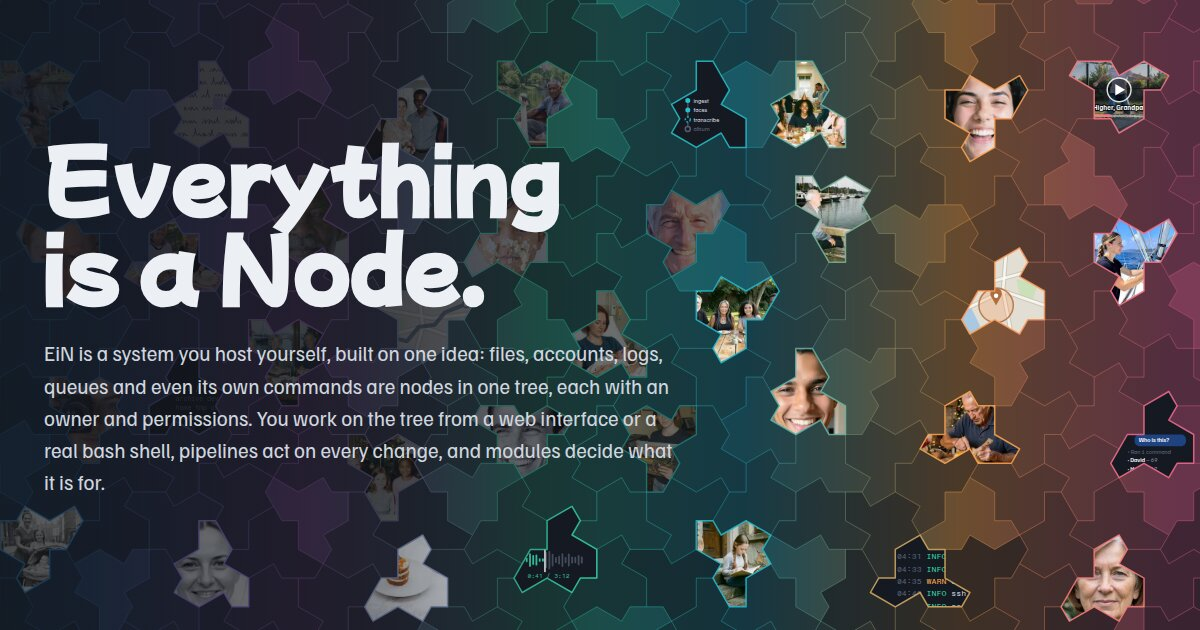
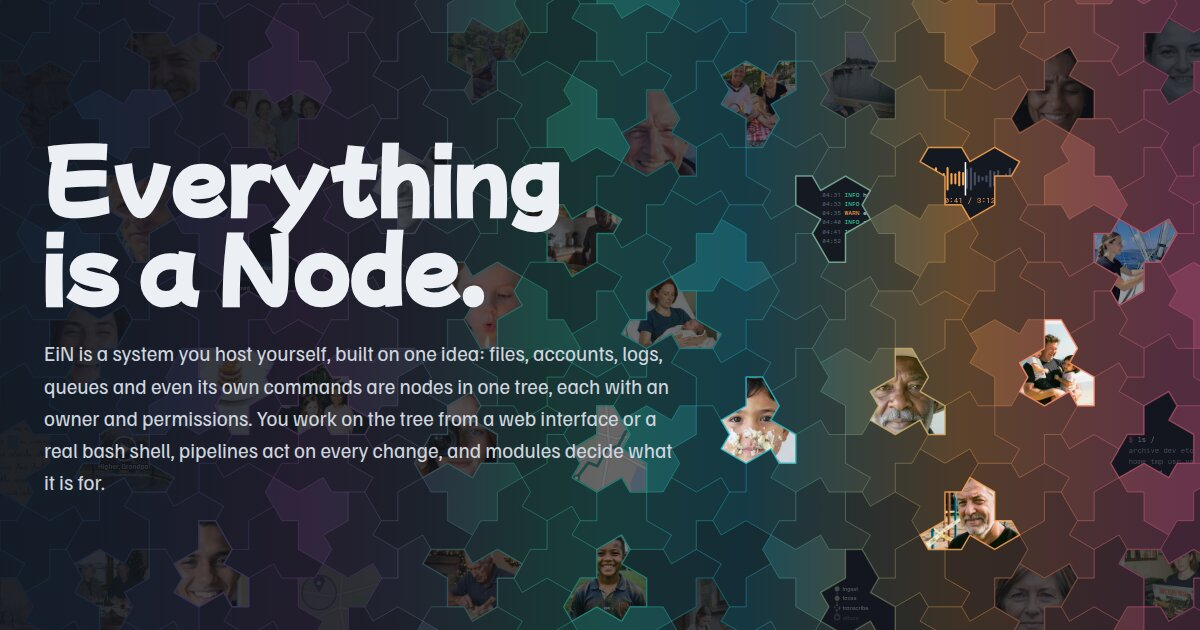
feat: Getting started comes right after the hero, and the hero's pictures run out to its edges
How to install follows the hero, titled Getting started, its details listing the assistant module
beside the Archive's, and One tree of nodes opens Core with the band of hats in Core's lime. The
system requirements, opening shorter, and the source still close the page, and the top bar marks
the chapter of whichever section is in view, whatever their order.

The hero's Getting started button comes first, alone on its row on a phone, and the key under the
hero is gone. Its pictures, now 38 with the drawn nodes beside them, go to every tile, the edges'
too, fading out towards them, and its foot runs into the deep ground under it.

diff --git a/index.html b/index.html
@@ -85,17 +85,72 @@
             You work on the tree from a web interface or a real bash shell, pipelines act on every change, and modules decide what it is for.
           </p>
           <div class="actions">
+            <a class="button button-start" href="#start">Getting started</a>
             <a class="button button-primary" href="#nodes">See how it works</a>
             <a class="button" href="#archive">Meet the Archive</a>
-            <a class="button button-start" href="#start">Getting started</a>
           </div>
         </div>
-        <p class="field-key">Each tile is a node: the Archive demo's people, albums and cameras, beside shells, logs, pipelines, recordings, places and letters.</p>
       </section>
 
-      <section class="nodes ch-core" id="nodes" aria-labelledby="nodes-title">
+      <section class="start deep ch-start" id="start" aria-labelledby="start-title">
         <div class="wrap">
           <div class="intro">
+            <h2 id="start-title">Getting started</h2>
+          </div>
+          <div class="installs">
+            <div class="install-choice">
+              <h3>EiN Core</h3>
+              <p>The bare bones EiN installation: add to it when you want.</p>
+              <div class="install">
+                <pre class="term term-command"
+                  tabindex="0"><code><span class="p">$</span> <span class="w">curl -fsSL</span> <span class="w">https://einhq.eu/install.sh</span> <span class="w">| bash</span></code></pre>
+                <button class="copy" type="button" data-copy hidden>Copy</button>
+                <span class="sr-only" role="status"></span>
+              </div>
+            </div>
+            <div class="install-choice">
+              <h3>EiN Archive</h3>
+              <p>The full Archive installation, with the media service and the chat.</p>
+              <div class="install">
+                <pre class="term term-command"
+                  tabindex="0"><code><span class="p">$</span> <span class="w">curl -fsSL</span> <span class="w">https://einhq.eu/install.sh</span> <span class="w">| bash -s --</span> <span class="w">--ems</span> <span class="w">--llm</span> <span class="w">--module archive</span> <span class="w">--module assistant</span></code></pre>
+                <button class="copy" type="button" data-copy hidden>Copy</button>
+                <span class="sr-only" role="status"></span>
+              </div>
+            </div>
+          </div>
+          <p class="install-note">
+            Either checks the machine against the <a href="#requirements">system requirements</a> below and stops if something is missing. Then it fetches
+            <a href="https://github.com/einhq/deploy">deploy</a> into <code>~/ein</code>, builds and starts, and prints the admin password to sign in with. <a
+              href="https://github.com/einhq/einhq.github.io/blob/main/install.sh"
+            >Read it first</a>.
+          </p>
+
+          <h3 class="sub">Details</h3>
+          <ol class="steps">
+            <li>
+              The media service, which the Archive needs: <code>~/ein/setup.sh --ems</code>. An image of about 30 GB with every model in it, built once, and the graphics card if there
+              is one.
+            </li>
+            <li>The assistant's language model: <code>--llm</code>. Or a hosted provider, set in <code>~/ein/.env</code>.</li>
+            <li>
+              The Archive module: <code>--module archive</code>, which EiN installs at its next start with the modules it needs. Settings → Modules adds, updates and removes
+              modules too.
+            </li>
+            <li>The assistant module: <code>--module assistant</code>, the chat, which answers with the language model.</li>
+            <li>
+              Updates: <code>~/ein/setup.sh</code> again fetches the newest sources of EiN and its services, rebuilds and restarts, keeping every option chosen before and the installed
+              modules, which Settings → Modules updates.
+            </li>
+          </ol>
+        </div>
+      </section>
+
+      <section class="nodes chapter ch-core" id="nodes" aria-labelledby="nodes-title">
+        <div class="band" data-band="system" aria-hidden="true"></div>
+        <div class="wrap">
+          <div class="intro">
+            <p class="chapter-mark"><span class="mark" aria-hidden="true"></span>Core</p>
             <h2 id="nodes-title">One tree of nodes</h2>
             <p>
               A node has a type, the attributes that type needs, an owner, a group and permission bits, and a name in a folder. It can have names in several folders at once, as a
@@ -1463,70 +1518,11 @@ options:
         </div>
       </section>
 
-      <section class="start deep chapter ch-start" id="start" aria-labelledby="install-title">
-        <div class="band" data-band="docs" aria-hidden="true"></div>
-        <div class="wrap">
-          <div class="intro">
-            <p class="chapter-mark"><span class="mark" aria-hidden="true"></span>Getting started</p>
-            <h2 id="install-title">Install</h2>
-            <p>
-              <span class="chip">In progress</span> Nothing is released yet and there are no published images, so the installer builds EiN from source on the machine it runs on and
-              starts it with podman compose or docker compose. One command, for EiN Core or EiN Archive:
-            </p>
-          </div>
-          <div class="installs">
-            <div class="install-choice">
-              <h3>EiN Core</h3>
-              <p>The bare bones EiN installation: add to it when you want.</p>
-              <div class="install">
-                <pre class="term term-command"
-                  tabindex="0"><code><span class="p">$</span> <span class="w">curl -fsSL</span> <span class="w">https://einhq.eu/install.sh</span> <span class="w">| bash</span></code></pre>
-                <button class="copy" type="button" data-copy hidden>Copy</button>
-                <span class="sr-only" role="status"></span>
-              </div>
-            </div>
-            <div class="install-choice">
-              <h3>EiN Archive</h3>
-              <p>The full Archive installation, with the media service and the chat.</p>
-              <div class="install">
-                <pre class="term term-command"
-                  tabindex="0"><code><span class="p">$</span> <span class="w">curl -fsSL</span> <span class="w">https://einhq.eu/install.sh</span> <span class="w">| bash -s --</span> <span class="w">--ems</span> <span class="w">--llm</span> <span class="w">--module archive</span> <span class="w">--module assistant</span></code></pre>
-                <button class="copy" type="button" data-copy hidden>Copy</button>
-                <span class="sr-only" role="status"></span>
-              </div>
-            </div>
-          </div>
-          <p class="install-note">
-            Either checks the machine against the <a href="#requirements">system requirements</a> below and stops if something is missing. Then it fetches
-            <a href="https://github.com/einhq/deploy">deploy</a> into <code>~/ein</code>, builds and starts, and prints the admin password to sign in with. <a
-              href="https://github.com/einhq/einhq.github.io/blob/main/install.sh"
-            >Read it first</a>.
-          </p>
-
-          <h3 class="sub">Adding to it later</h3>
-          <ol class="steps">
-            <li>
-              The media service, which the Archive needs: <code>~/ein/setup.sh --ems</code>. An image of about 30 GB with every model in it, built once, and the graphics card if there
-              is one.
-            </li>
-            <li>The assistant's language model: <code>--llm</code>. Or a hosted provider, set in <code>~/ein/.env</code>.</li>
-            <li>A module: <code>--module archive</code>, which EiN installs at its next start with the modules it needs. Settings → Modules adds, updates and removes them too.</li>
-            <li>
-              Updates: <code>~/ein/setup.sh</code> again fetches the newest sources of EiN and its services, rebuilds and restarts, keeping every option chosen before and the installed
-              modules, which Settings → Modules updates.
-            </li>
-          </ol>
-        </div>
-      </section>
-
-      <section class="requirements ch-start" id="requirements" aria-labelledby="requirements-title">
+      <section class="requirements deep ch-start" id="requirements" aria-labelledby="requirements-title">
         <div class="wrap">
           <div class="intro">
             <h2 id="requirements-title">System requirements</h2>
-            <p>
-              EiN runs in containers on one Linux machine: EiN and its database always, the media service and the language model when you add them. A graphics card is optional: without one every feature still works, more slowly. The recommended machine is the one EiN
-              is tuned and measured on; the minimum is an estimate that has not yet been run end to end.
-            </p>
+            <p>EiN runs in containers on one Linux machine. A graphics card is optional: without one everything works, only slower. The minimum is an estimate.</p>
           </div>
           <div class="table-scroll" tabindex="0" role="region" aria-label="System requirements">
             <table class="spec">
@@ -1603,7 +1599,7 @@ options:
         </div>
       </section>
 
-      <section class="source deep ch-start" id="source" aria-labelledby="source-title">
+      <section class="source ch-start" id="source" aria-labelledby="source-title">
         <div class="wrap">
           <div class="intro">
             <h2 id="source-title">Open source</h2>

diff --git a/assets/site.js b/assets/site.js
@@ -402,9 +402,10 @@ const GLYPHS = {
 
 /**
  * Lays the hats over `host`: the faces of the demo's people, the covers of its albums and cameras and
- * the drawn nodes spread over the whole field, dimmed where the copy stands over them, and every other
- * tile tinted in EiN's mixed pattern, brighter on the open side: right of the copy on a wide screen,
- * above the headline on a narrow one. A pictured tile's outline takes the pattern's colour where it lies.
+ * the drawn nodes spread over the whole field, dimmed where the copy stands over them and fading out
+ * towards its edges, and every other tile tinted in EiN's mixed pattern, brighter on the open side:
+ * right of the copy on a wide screen, above the headline on a narrow one. A pictured tile's outline
+ * takes the pattern's colour where it lies.
  */
 function layField(host, pictures, entering) {
   const width = host.clientWidth;
@@ -416,7 +417,7 @@ function layField(host, pictures, entering) {
   const headline = host.parentElement.querySelector('h1');
   const copyTop = headline ? headline.getBoundingClientRect().top - origin.top : height * 0.4;
   // The copy's box, around the lines of the headline and the lede and the buttons (a headline's
-  // own box is wider than its words), and where the key under it starts.
+  // own box is wider than its words).
   const lines = (selector) => {
     const range = document.createRange();
     const el = host.parentElement.querySelector(selector);
@@ -433,8 +434,6 @@ function layField(host, pictures, entering) {
       bottom: Math.max(...parts.map((r) => r.bottom)) - origin.top,
     }
     : null;
-  const key = host.parentElement.querySelector('.field-key');
-  const foot = key ? key.getBoundingClientRect().top - origin.top - 8 : height;
   const hatPx = width < 720 ? 60 : Math.min(112, Math.max(76, width / 14));
   const tiles = hatsIn(width, height, CUT, hatPx / HAT_WIDTH);
 
@@ -442,14 +441,18 @@ function layField(host, pictures, entering) {
   // brighter.
   const openness = (t) =>
     stacked ? 1 - smooth(copyTop * 0.5, copyTop * 0.92, t.cy) : smooth(width * 0.38, width * 0.8, t.cx) * (1 - smooth(height * 0.66, height * 0.92, t.cy));
-  // A picture behind the copy is dimmed, so the text over it stays easy to read.
+  // A picture behind the copy is dimmed, so the text over it stays easy to read, and one towards the
+  // field's edges fades out, as one cut by an edge runs on past it.
   const margin = hatPx * 0.3;
   const behindCopy = (t) => copy && t.cx > copy.x - margin && t.cx < copy.right + margin && t.cy > copy.y - margin && t.cy < copy.bottom + margin;
-  const whole = (t) => t.box.x >= 0 && t.box.y >= barBottom() && t.box.right <= width && t.box.bottom <= foot;
-  // Pictures go to whole tiles over the whole field, spread evenly: the most open tile first, then
-  // each time the tile farthest from those chosen, until every picture has a tile or no tile is a
-  // spacing clear of the others and touches none of them.
-  const free = tiles.filter(whole);
+  const top = barBottom();
+  const toEdge = (t) => Math.min(t.cx, width - t.cx, t.cy - top, height - t.cy);
+  const shown = (t) => (behindCopy(t) ? 0.4 : 1) * (0.2 + 0.8 * smooth(0, hatPx * 1.6, toEdge(t)));
+  // Pictures go to tiles over the whole field, edges and all, spread evenly: the most open tile
+  // first, then each time the tile farthest from those chosen, until every picture has a tile or no
+  // tile is a spacing clear of the others and touches none of them. A tile whose middle is off the
+  // field or under the top bar takes none.
+  const free = tiles.filter((t) => toEdge(t) >= 0);
   const chosen = [];
   while (chosen.length < pictures.length && free.length) {
     let best;
@@ -494,7 +497,7 @@ function layField(host, pictures, entering) {
       const accent = mixedAt(tile.cx / width);
       const group = svg('g', {
         class: 'tile tile-picture',
-        style: `--delay: ${delay.toFixed(0)}ms; --accent: ${accent}${behindCopy(tile) ? '; opacity: 0.4' : ''}`,
+        style: `--delay: ${delay.toFixed(0)}ms; --accent: ${accent}; opacity: ${shown(tile).toFixed(2)}`,
       });
       const clip = `hat-${tile.index}`;
       const clipPath = svg('clipPath', { id: clip });
@@ -781,7 +784,8 @@ function barBottom() {
 
 /**
  * The top bar: an edge once the page has scrolled, and its link to the chapter in view marked
- * (`aria-current`), the chapter being the last whose start has passed a third of the way down. On a
+ * (`aria-current`): the chapter (`ch-` class) of the last section whose start has passed a third of
+ * the way down, the hero's being the first link's. Getting started comes both first and last. On a
  * phone its links are a menu (site.css), which a chapter's link, Escape, a tap outside it or a wider
  * window closes again.
  */
@@ -789,12 +793,15 @@ function bar() {
   const header = document.querySelector('.bar');
   if (!header) return;
   const links = [...header.querySelectorAll('nav a')];
-  const starts = links.map((link) => document.querySelector(link.hash));
+  const sections = [...document.querySelectorAll('main > section')];
+  const chapterOf = (el) => [...el.classList].find((name) => name.startsWith('ch-'));
+  const linkOf = (section) => links.find((link) => chapterOf(link) === chapterOf(section)) ?? links[0];
   const update = () => {
     header.toggleAttribute('data-scrolled', scrollY > 8);
     const line = innerHeight / 3;
-    const at = starts.findLastIndex((start) => start && start.getBoundingClientRect().top <= line);
-    links.forEach((link, i) => i === at ? link.setAttribute('aria-current', 'true') : link.removeAttribute('aria-current'));
+    const section = sections.findLast((el) => el.getBoundingClientRect().top <= line);
+    const at = section && linkOf(section);
+    for (const link of links) link === at ? link.setAttribute('aria-current', 'true') : link.removeAttribute('aria-current');
   };
   addEventListener('scroll', update, { passive: true });
   addEventListener('resize', update, { passive: true });

diff --git a/assets/site.css b/assets/site.css
@@ -569,7 +569,7 @@ kbd {
   display: grid;
   align-content: end;
   min-height: min(94vh, 900px);
-  padding: calc(120px + var(--notice-h)) var(--gutter) 40px;
+  padding: calc(120px + var(--notice-h)) var(--gutter) clamp(56px, 7vw, 104px);
   overflow: hidden;
   isolation: isolate;
 }
@@ -583,7 +583,8 @@ kbd {
   width: 100%;
   height: 100%;
 }
-/* The copy stands on a quieter left and foot of the field; the scrim paints above the tiles. */
+/* The copy stands on a quieter left and foot of the field, whose foot runs into the deep ground of
+ * Getting started under it; the scrim paints above the tiles. */
 .hero::before {
   content: '';
   position: absolute;
@@ -591,7 +592,7 @@ kbd {
   z-index: -1;
   pointer-events: none;
   background:
-    linear-gradient(to top, var(--ink) 0%, rgb(18 21 28 / 0.55) 7%, transparent 13%),
+    linear-gradient(to top, var(--ink-deep) 0%, rgb(18 21 28 / 0.55) 7%, transparent 13%),
     linear-gradient(to right, rgb(18 21 28 / 0.72) 0%, rgb(18 21 28 / 0.5) 30%, transparent 46%);
 }
 .hero-copy {
@@ -666,12 +667,16 @@ kbd {
 .button-start:hover::before {
   transform: rotate(60deg);
 }
-
-.field-key {
-  width: min(100%, var(--wrap));
-  margin: 72px auto 0;
-  color: var(--muted);
-  font-size: var(--t-small);
+/* On a phone the way in takes the row, and the other two share the one under it. */
+@media (max-width: 780px) {
+  .actions .button {
+    flex: 1 1 auto;
+    justify-content: center;
+    padding-inline: 16px;
+  }
+  .actions .button-start {
+    flex-basis: 100%;
+  }
 }
 
 /* The field's tiles (drawn by site.js, which paints them). */
@@ -865,10 +870,10 @@ kbd {
   color: var(--muted);
 }
 
-/* Stacked: the copy spans the width, so the field shows above it (site.js puts the pictures there). */
+/* Stacked: the copy spans the width, so the field shows above it. */
 @media (max-width: 999px) {
   .hero::before {
-    background: linear-gradient(to top, var(--ink) 0%, rgb(18 21 28 / 0.92) 50%, transparent 64%);
+    background: linear-gradient(to top, var(--ink-deep) 0%, rgb(18 21 28 / 0.92) 50%, transparent 64%);
   }
 }
 @media (max-width: 720px) {
@@ -877,10 +882,7 @@ kbd {
     padding-top: 46vh;
   }
   .hero::before {
-    background: linear-gradient(to top, var(--ink) 0%, var(--ink) 50%, rgb(18 21 28 / 0.7) 57%, transparent 63%);
-  }
-  .field-key {
-    margin-top: 48px;
+    background: linear-gradient(to top, var(--ink-deep) 0%, var(--ink) 50%, rgb(18 21 28 / 0.7) 57%, transparent 63%);
   }
 }
 

diff --git a/tools/capture.ts b/tools/capture.ts
@@ -291,6 +291,11 @@ const HERO: Record<string, string[]> = {
     'Noah Price',
     'Arthur Wrenfield',
     'Freya Wrenfield',
+    'Erik Wrenfield',
+    'Grace Price',
+    'Jon Wrenfield',
+    'Kiri Wrenfield',
+    'Leo Wrenfield',
   ],
   album: [
     'Isla turns seven',
@@ -305,8 +310,12 @@ const HERO: Record<string, string[]> = {
     'Christmas at the cottage',
     "Helen and David's wedding",
     'Christmas 1975',
+    'Leo comes home',
+    'A lockdown walk',
+    "Jon's Wellington",
+    "David's London",
   ],
-  device: ["Erik's iPhone", "Peggy's Lumix", "David's 7D", "Grace's N95", "Helen's Coolpix"],
+  device: ["Erik's iPhone", "Peggy's Lumix", "David's 7D", "Grace's N95", "Helen's Coolpix", "Jon's X-Pro1", "Ruby's iPhone"],
 };
 
 /**

diff --git a/README.md b/README.md
@@ -1,14 +1,14 @@
 # einhq.github.io
 
-EiN's presentation page, in five chapters that are the top bar's links. Core is EiN itself, naming
-no module: nodes and the core's node types, the tree, the shell, the web interface, pipelines and
-modules. Assistant is the chat and what it does on any installation, ending where it has a real
-purpose, the Archive. Archive is the first module, with the screenshots from the demo archive, its
-media types and pipelines, asking the assistant about the family, and the media service.
-Screenshots is a gallery of almost every page, and Getting started holds the system requirements,
-how to install and the source. Core opens on the hero, whose field wears the interface's mixed
-pattern as its home page does; each other chapter opens on a band of hats in the colour of the
-interface's pages it is about.
+EiN's presentation page, in five chapters that are the top bar's links. It opens on the hero, whose
+field wears the interface's mixed pattern as its home page does, and how to install comes right
+under it. Core is EiN itself, naming no module: nodes and the core's node types, the tree, the
+shell, the web interface, pipelines and modules. Assistant is the chat and what it does on any
+installation, ending where it has a real purpose, the Archive. Archive is the first module, with the
+screenshots from the demo archive, its media types and pipelines, asking the assistant about the
+family, and the media service. Screenshots is a gallery of almost every page, and the system
+requirements and the source close the page, Getting started's like the install. Each chapter opens
+on a band of hats in the colour of the interface's pages it is about.
 It is the GitHub Pages site of the [einhq](https://github.com/einhq) organisation, served at
 <https://einhq.eu> (`CNAME`).
 
